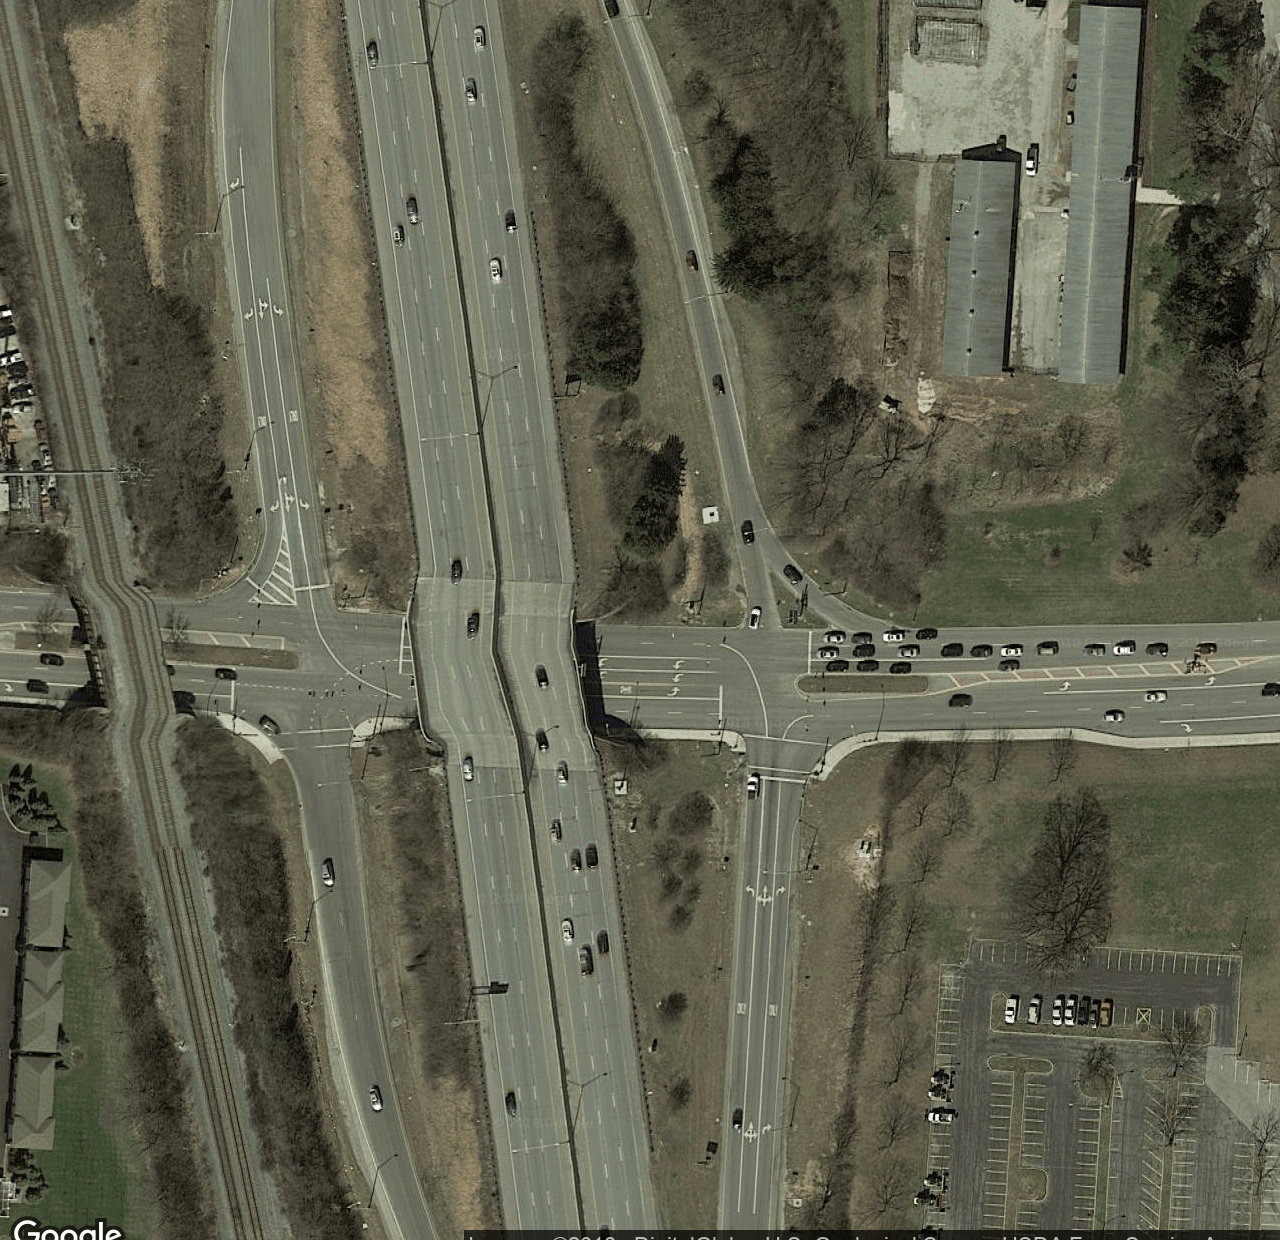
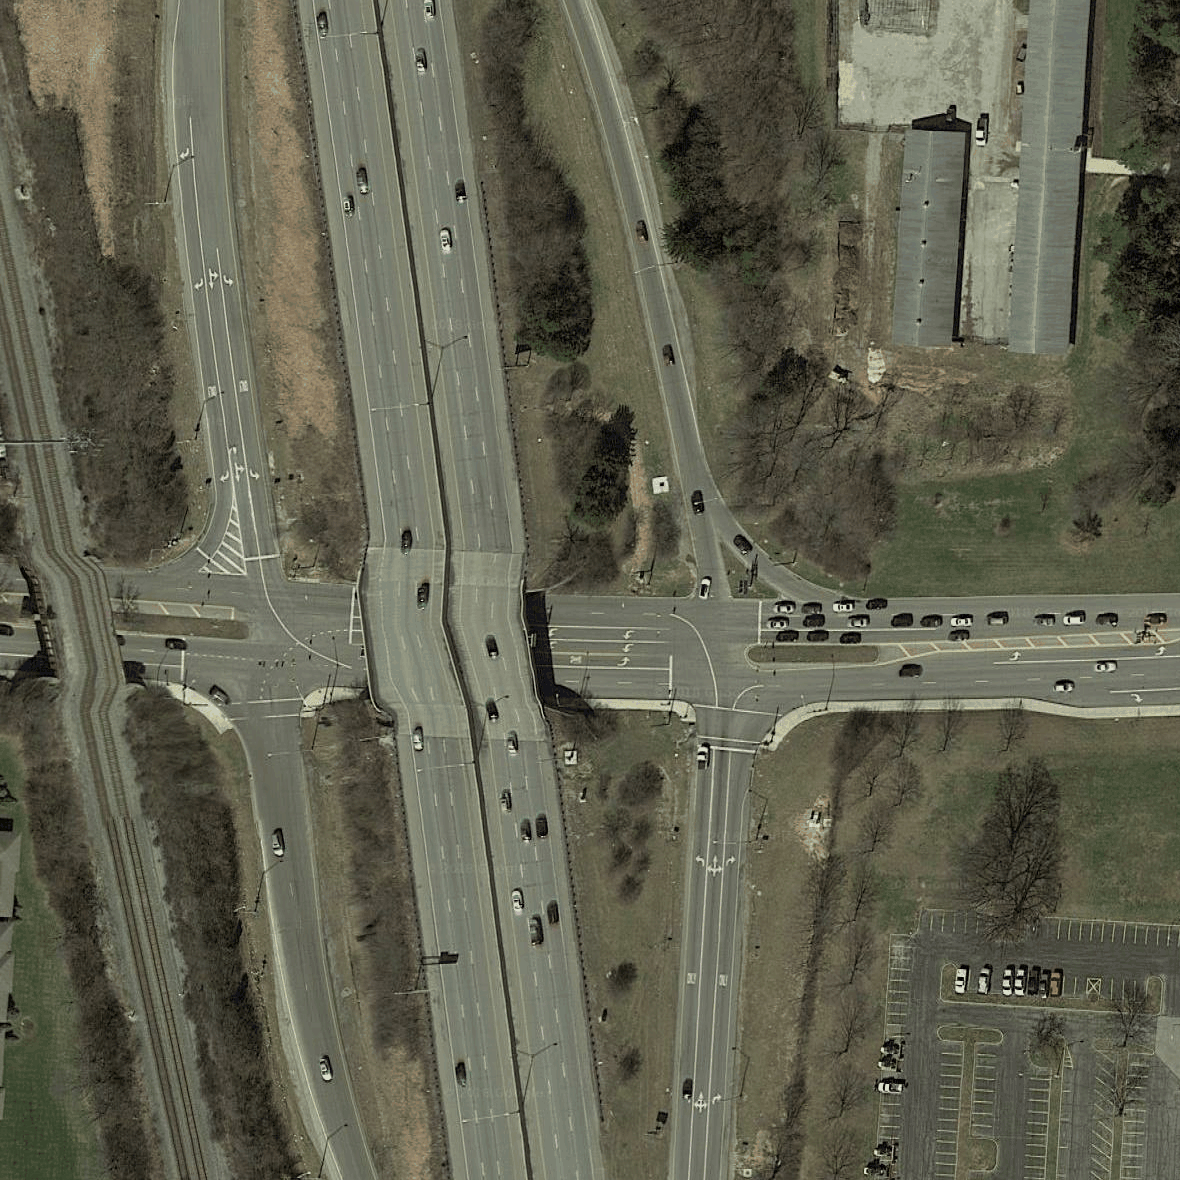
Added the roadmap image for diff comparison

diff --git a/CoordsToMapImage/MapImage.py b/CoordsToMapImage/MapImage.py
@@ -9,7 +9,7 @@ def getSatImage(coordLat, coordLong, zoom=18):
     URL = "https://maps.googleapis.com/maps/api/staticmap?"
     center = str(coordLat)+','+str(coordLong)
     # Crop out top and bottom 20 pixels to keep image centered
-    size = '1240x1280'
+    size = '590x640'
     maptype = 'satellite'
     key = ''
     PARAMS = {'center':center,'zoom':zoom,'size':size,'maptype':maptype,'key':key, 'scale':2}
@@ -17,7 +17,19 @@ def getSatImage(coordLat, coordLong, zoom=18):
     r = requests.get(url=URL, params=PARAMS)
     img = Image.open(BytesIO(r.content))
     width, height = img.size
-    img = img.crop((0,20,width,(height-20)))
+    img = img.crop((0,50,width,(height-50)))
     fileName = './Images/img1.png'
     img.save(fileName, 'PNG')
-    return fileName
+
+    maptype = 'terrain'
+    PARAMS = {'center':center,'zoom':zoom,'size':size,'maptype':maptype,'key':key, 'scale':2}
+    
+    r = requests.get(url=URL, params=PARAMS)
+    img = Image.open(BytesIO(r.content))
+    width, height = img.size
+    img = img.crop((0,50,width,(height-50)))
+    fileName2 = './Images/img2.png'
+    img.save(fileName2, 'PNG')
+
+
+    return fileName, fileName2
